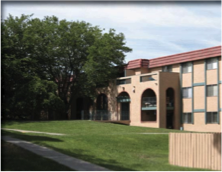
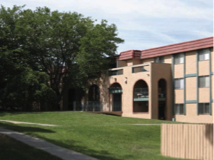
Resize property thumbnails.

diff --git a/public/assets/css/application.css b/public/assets/css/application.css
@@ -1086,8 +1086,8 @@ a.banner_link img.full {
 }
 
 .portfolio_image_thumbnails img {
-  width: 192px;
-  height: 120px;
+  width: 100px;
+  height: 60px;
   margin-bottom: 4px;
 }
 
